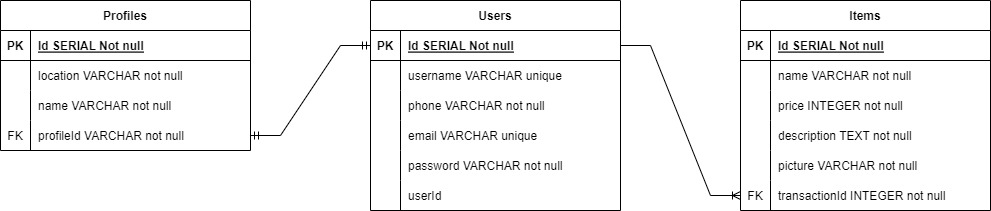
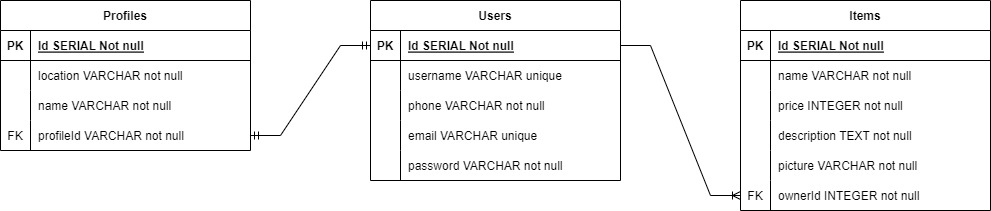
+ file migrate tapi belum tambah seeders, + router

diff --git a/models/index.js b/models/index.js
@@ -1,0 +1,37 @@
+'use strict';
+
+const fs = require('fs');
+const path = require('path');
+const Sequelize = require('sequelize');
+const basename = path.basename(__filename);
+const env = process.env.NODE_ENV || 'development';
+const config = require(__dirname + '/../config/config.json')[env];
+const db = {};
+
+let sequelize;
+if (config.use_env_variable) {
+  sequelize = new Sequelize(process.env[config.use_env_variable], config);
+} else {
+  sequelize = new Sequelize(config.database, config.username, config.password, config);
+}
+
+fs
+  .readdirSync(__dirname)
+  .filter(file => {
+    return (file.indexOf('.') !== 0) && (file !== basename) && (file.slice(-3) === '.js');
+  })
+  .forEach(file => {
+    const model = require(path.join(__dirname, file))(sequelize, Sequelize.DataTypes);
+    db[model.name] = model;
+  });
+
+Object.keys(db).forEach(modelName => {
+  if (db[modelName].associate) {
+    db[modelName].associate(db);
+  }
+});
+
+db.sequelize = sequelize;
+db.Sequelize = Sequelize;
+
+module.exports = db;

diff --git a/migrations/20220224045618-create-item.js b/migrations/20220224045618-create-item.js
@@ -1,0 +1,45 @@
+'use strict';
+module.exports = {
+  async up(queryInterface, Sequelize) {
+    await queryInterface.createTable('Items', {
+      id: {
+        allowNull: false,
+        autoIncrement: true,
+        primaryKey: true,
+        type: Sequelize.INTEGER
+      },
+      name: {
+        type: Sequelize.STRING
+      },
+      price: {
+        type: Sequelize.INTEGER
+      },
+      description: {
+        type: Sequelize.STRING
+      },
+      picture: {
+        type: Sequelize.STRING
+      },
+      ownerId: {
+        type: Sequelize.INTEGER,
+        references: {
+          model: 'Users',
+          key: 'id'
+        },
+        onUpdate: 'cascade',
+        onDelete: 'cascade'
+      },
+      createdAt: {
+        allowNull: false,
+        type: Sequelize.DATE
+      },
+      updatedAt: {
+        allowNull: false,
+        type: Sequelize.DATE
+      }
+    });
+  },
+  async down(queryInterface, Sequelize) {
+    await queryInterface.dropTable('Items');
+  }
+};

diff --git a/migrations/20220224045319-create-profile.js b/migrations/20220224045319-create-profile.js
@@ -1,0 +1,39 @@
+'use strict';
+module.exports = {
+  async up(queryInterface, Sequelize) {
+    await queryInterface.createTable('Profiles', {
+      id: {
+        allowNull: false,
+        autoIncrement: true,
+        primaryKey: true,
+        type: Sequelize.INTEGER
+      },
+      profileId: {
+        type: Sequelize.INTEGER,
+        references: {
+          model: 'Users',
+          key: 'id'
+        },
+        onUpdate: 'cascade',
+        onDelete: 'cascade'
+      },
+      location: {
+        type: Sequelize.STRING
+      },
+      name: {
+        type: Sequelize.STRING
+      },
+      createdAt: {
+        allowNull: false,
+        type: Sequelize.DATE
+      },
+      updatedAt: {
+        allowNull: false,
+        type: Sequelize.DATE
+      }
+    });
+  },
+  async down(queryInterface, Sequelize) {
+    await queryInterface.dropTable('Profiles');
+  }
+};

diff --git a/migrations/20220224045153-create-user.js b/migrations/20220224045153-create-user.js
@@ -1,0 +1,36 @@
+'use strict';
+module.exports = {
+  async up(queryInterface, Sequelize) {
+    await queryInterface.createTable('Users', {
+      id: {
+        allowNull: false,
+        autoIncrement: true,
+        primaryKey: true,
+        type: Sequelize.INTEGER
+      },
+      username: {
+        type: Sequelize.STRING
+      },
+      phone: {
+        type: Sequelize.STRING
+      },
+      email: {
+        type: Sequelize.STRING
+      },
+      password: {
+        type: Sequelize.STRING
+      },
+      createdAt: {
+        allowNull: false,
+        type: Sequelize.DATE
+      },
+      updatedAt: {
+        allowNull: false,
+        type: Sequelize.DATE
+      }
+    });
+  },
+  async down(queryInterface, Sequelize) {
+    await queryInterface.dropTable('Users');
+  }
+};

diff --git a/models/user.js b/models/user.js
@@ -1,0 +1,27 @@
+'use strict';
+const {
+  Model
+} = require('sequelize');
+module.exports = (sequelize, DataTypes) => {
+  class User extends Model {
+    /**
+     * Helper method for defining associations.
+     * This method is not a part of Sequelize lifecycle.
+     * The `models/index` file will call this method automatically.
+     */
+    static associate(models) {
+      User.hasOne(models.Profile, { foreignKey: 'profileId' })
+      User.hasMany(models.Item, {foreignKey: 'ownerId', sourceKey: 'id'})
+    }
+  }
+  User.init({
+    username: DataTypes.STRING,
+    phone: DataTypes.STRING,
+    email: DataTypes.STRING,
+    password: DataTypes.STRING
+  }, {
+    sequelize,
+    modelName: 'User',
+  });
+  return User;
+};

diff --git a/models/item.js b/models/item.js
@@ -1,0 +1,27 @@
+'use strict';
+const {
+  Model
+} = require('sequelize');
+module.exports = (sequelize, DataTypes) => {
+  class Item extends Model {
+    /**
+     * Helper method for defining associations.
+     * This method is not a part of Sequelize lifecycle.
+     * The `models/index` file will call this method automatically.
+     */
+    static associate(models) {
+      Item.belongsTo(models.User, {foreignKey: 'ownerId'})
+    }
+  }
+  Item.init({
+    name: DataTypes.STRING,
+    price: DataTypes.INTEGER,
+    description: DataTypes.STRING,
+    picture: DataTypes.STRING,
+    ownerId: DataTypes.INTEGER
+  }, {
+    sequelize,
+    modelName: 'Item',
+  });
+  return Item;
+};

diff --git a/models/profile.js b/models/profile.js
@@ -1,0 +1,25 @@
+'use strict';
+const {
+  Model
+} = require('sequelize');
+module.exports = (sequelize, DataTypes) => {
+  class Profile extends Model {
+    /**
+     * Helper method for defining associations.
+     * This method is not a part of Sequelize lifecycle.
+     * The `models/index` file will call this method automatically.
+     */
+    static associate(models) {
+      Profile.belongsTo(models.User, {foreignKey: 'profileId'})
+    }
+  }
+  Profile.init({
+    profileId: DataTypes.INTEGER,
+    location: DataTypes.STRING,
+    name: DataTypes.STRING
+  }, {
+    sequelize,
+    modelName: 'Profile',
+  });
+  return Profile;
+};

diff --git a/app.js b/app.js
@@ -1,0 +1,18 @@
+const express = require('express')
+const routes = require('./routes/index')
+const app = express()
+const port = 3000
+
+app.set('view engine', 'ejs')
+
+app.use(express.urlencoded({extended : false}))
+
+app.use('/', routes)
+
+app.listen(port, (err, data) => {
+    if(err){
+        console.log(err)
+    } else {
+        console.log(`Gaskeun ${port}`)
+    }
+})

diff --git a/routes/index.js b/routes/index.js
@@ -1,0 +1,9 @@
+const express = require('express')
+const router = express.Router()
+
+router.get('/', (req, res) => {
+    
+})
+
+
+module.exports = router
